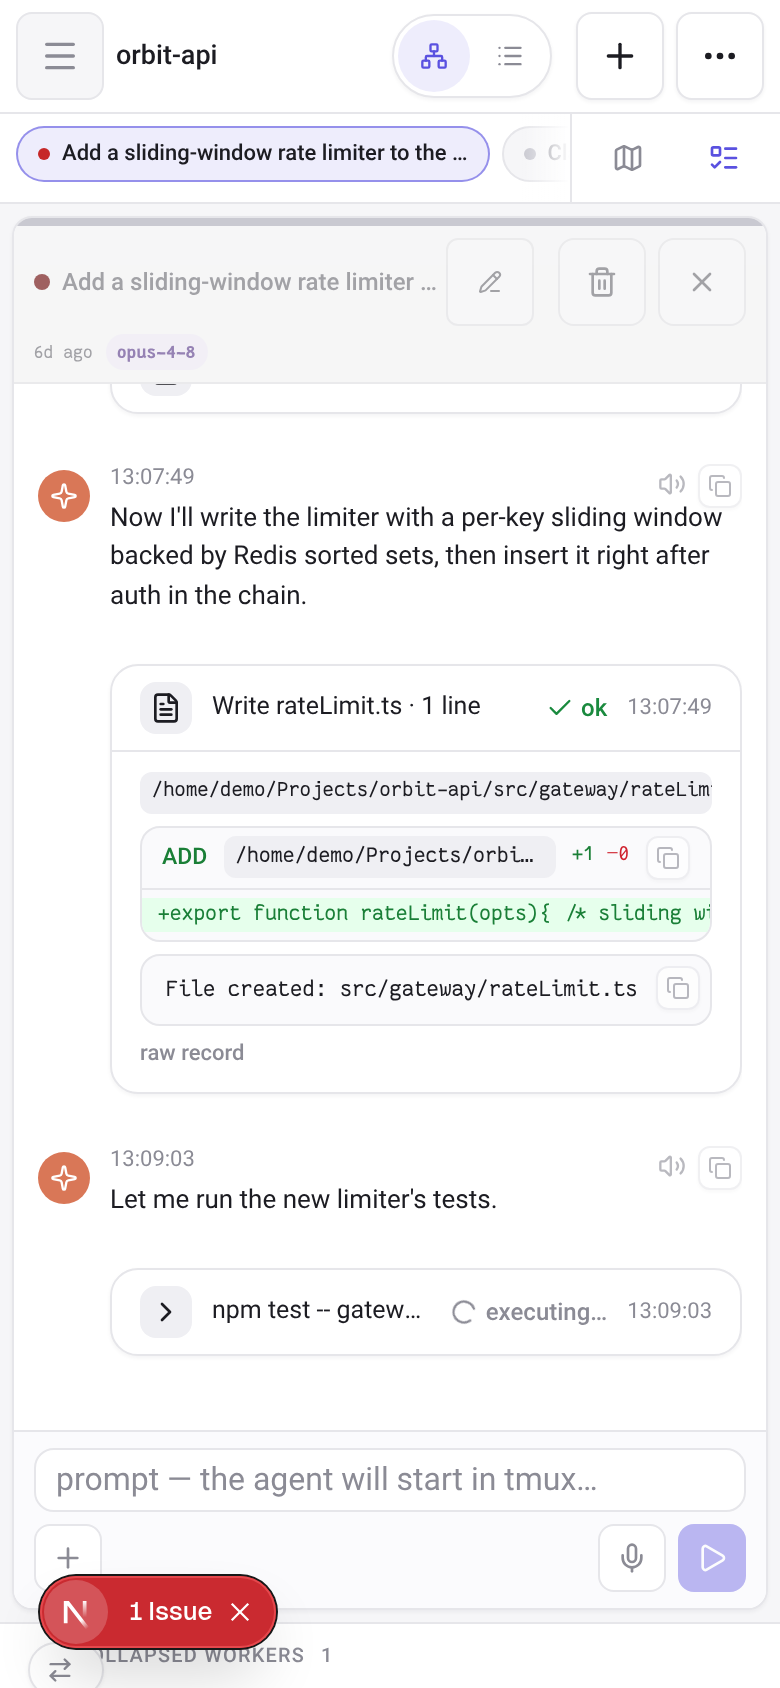
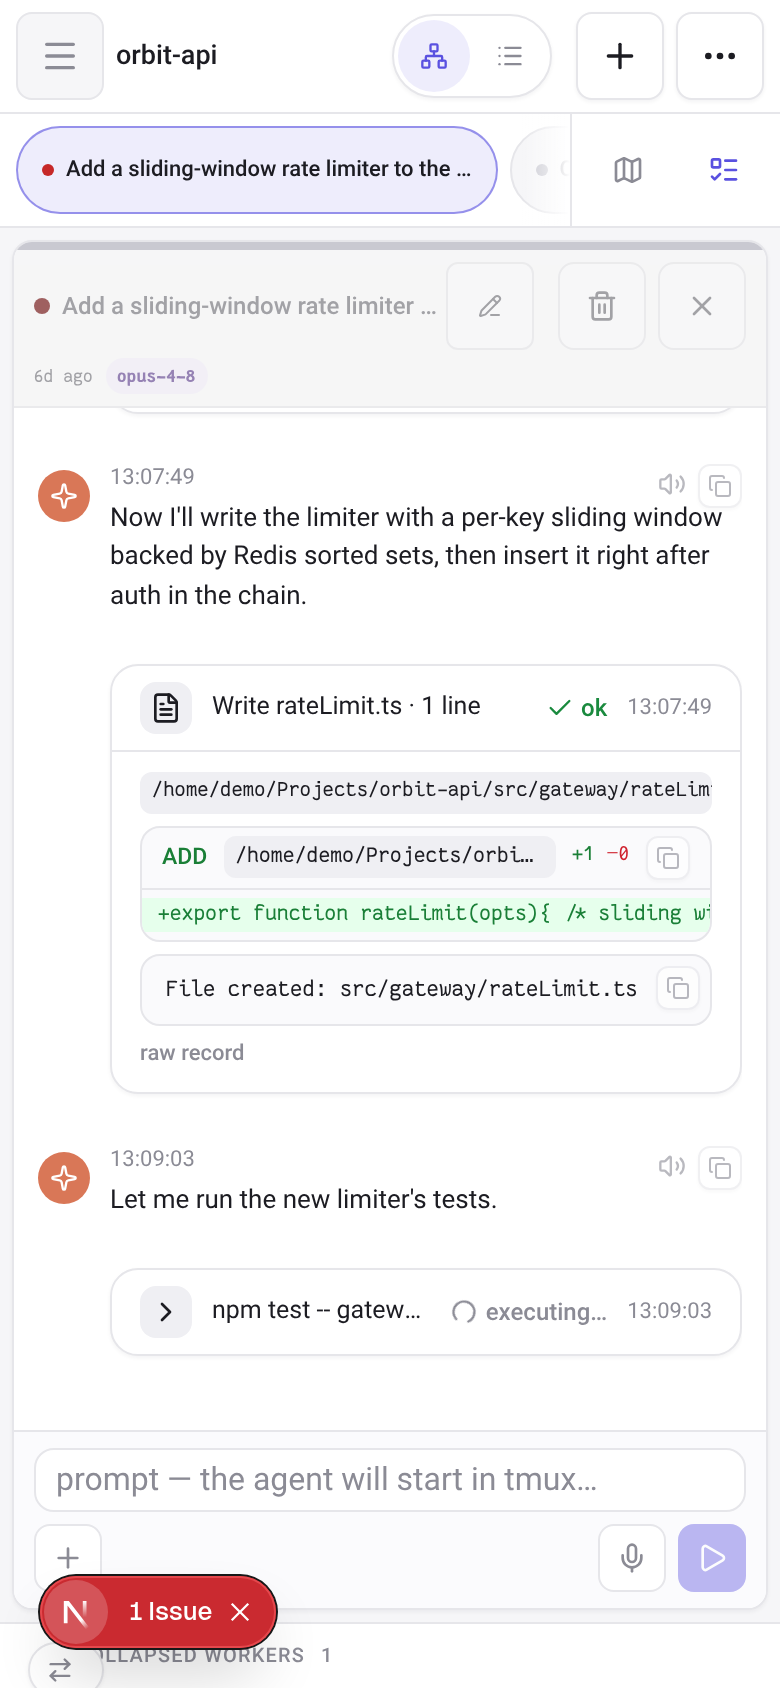
fix: 44px conversation chips on mobile (#145)
Bump the focus-view switch chips from 28px to 44px so every mobile tap
target meets the acceptance minimum, aligned with the docked map/tasks
controls in the same strip. Refresh the after-scheme screenshot.

Changed region(s): [[0.0, 0.0616, 0.9846, 0.2464]]

diff --git a/src/components/mobile/MobileFocusView.tsx b/src/components/mobile/MobileFocusView.tsx
@@ -541,7 +541,7 @@ function StripChip({
       <button
         ref={chipRef}
         type="button"
-        className={`flex h-7 shrink-0 items-center gap-1 rounded-full border px-2.5 text-[11px] font-semibold ${
+        className={`flex h-11 shrink-0 items-center gap-1 rounded-full border px-3 text-[11px] font-semibold ${
           active ? "border-accent/60 bg-accent/10 text-ink" : "border-dashed border-line bg-bg text-dim"
         }`}
         onClick={onClick}
@@ -559,7 +559,7 @@ function StripChip({
     <button
       ref={chipRef}
       type="button"
-      className={`flex h-7 shrink-0 items-center gap-1.5 rounded-full border px-2.5 text-[11px] font-semibold ${
+      className={`flex h-11 shrink-0 items-center gap-1.5 rounded-full border px-3 text-[11px] font-semibold ${
         active
           ? "border-accent/60 bg-accent/10 text-ink"
           : waiting